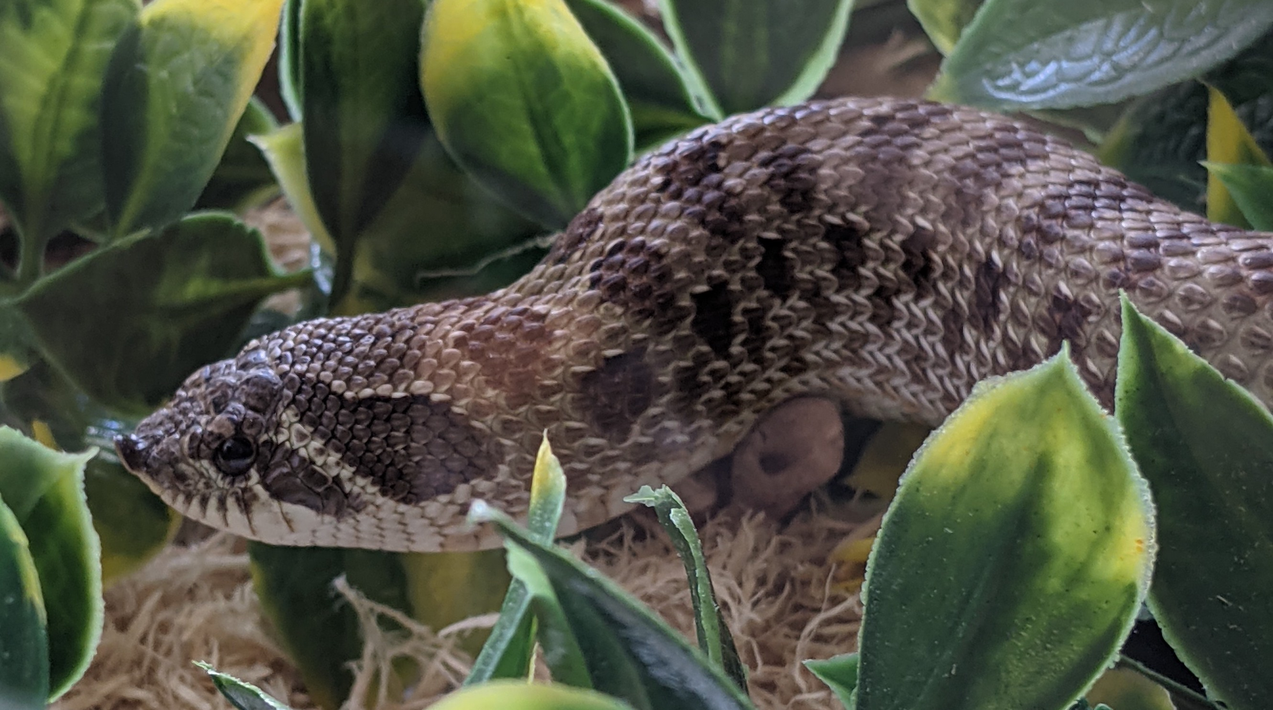
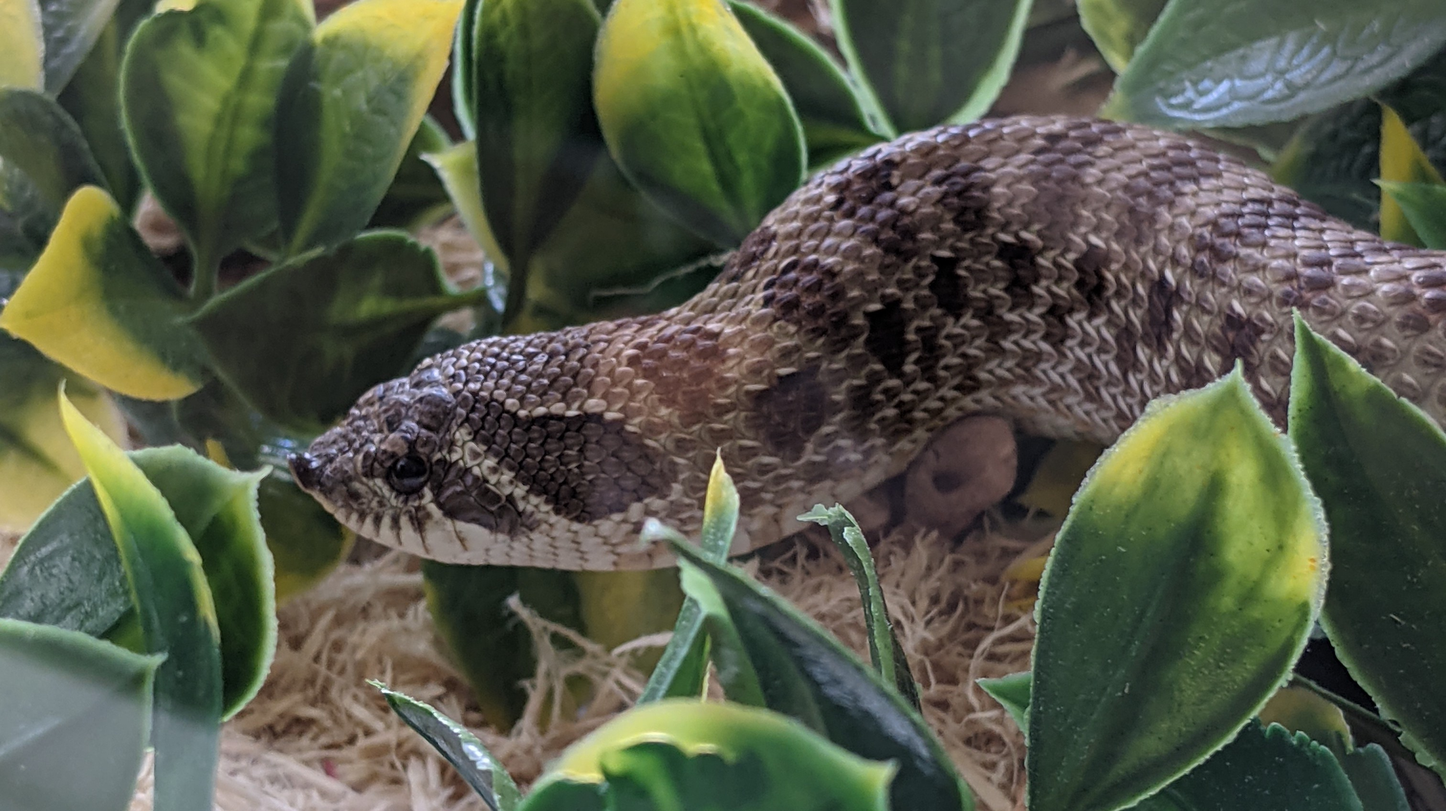
jpeg not jpg

diff --git a/index.md b/index.md
@@ -12,7 +12,7 @@ I have a pet western hognose snake (_Heterodon nasicus_). Her name is Beagle!
 
 <div style="text-align: center;">
 	<a href="/assets/beagle.jpg">
-		<img src="/assets/beagle.jpg" height="200">
+		<img src="/assets/beagle.jpeg" height="200">
 	</a>
 </div>
 
